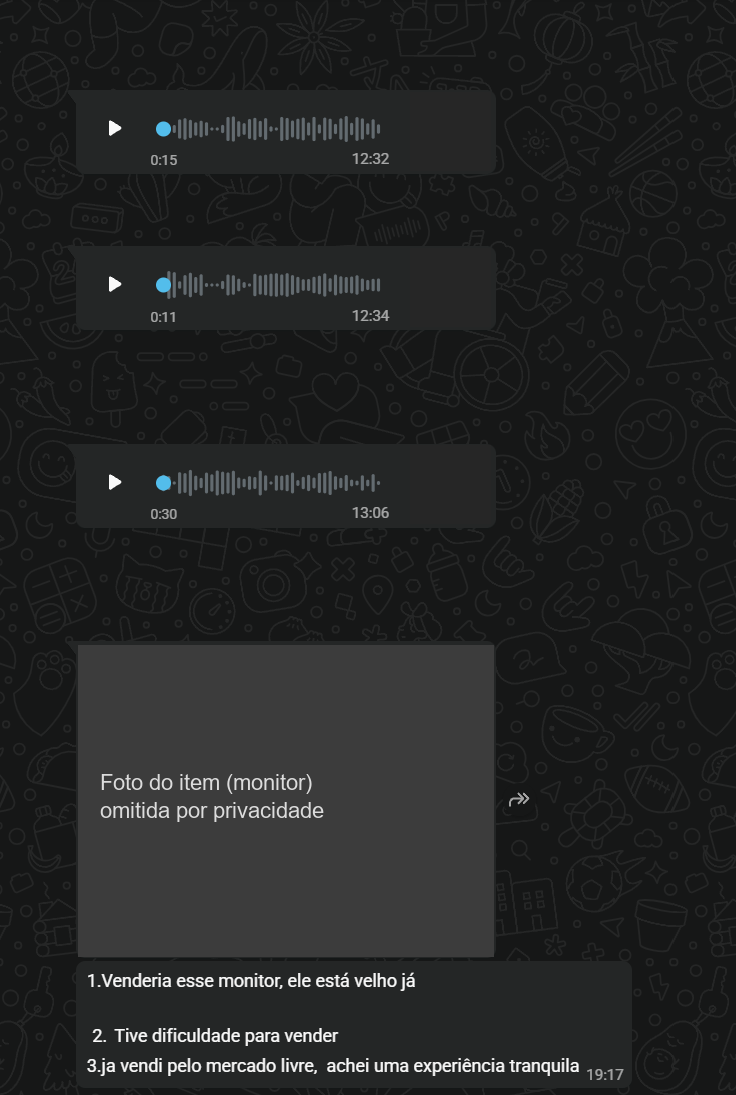
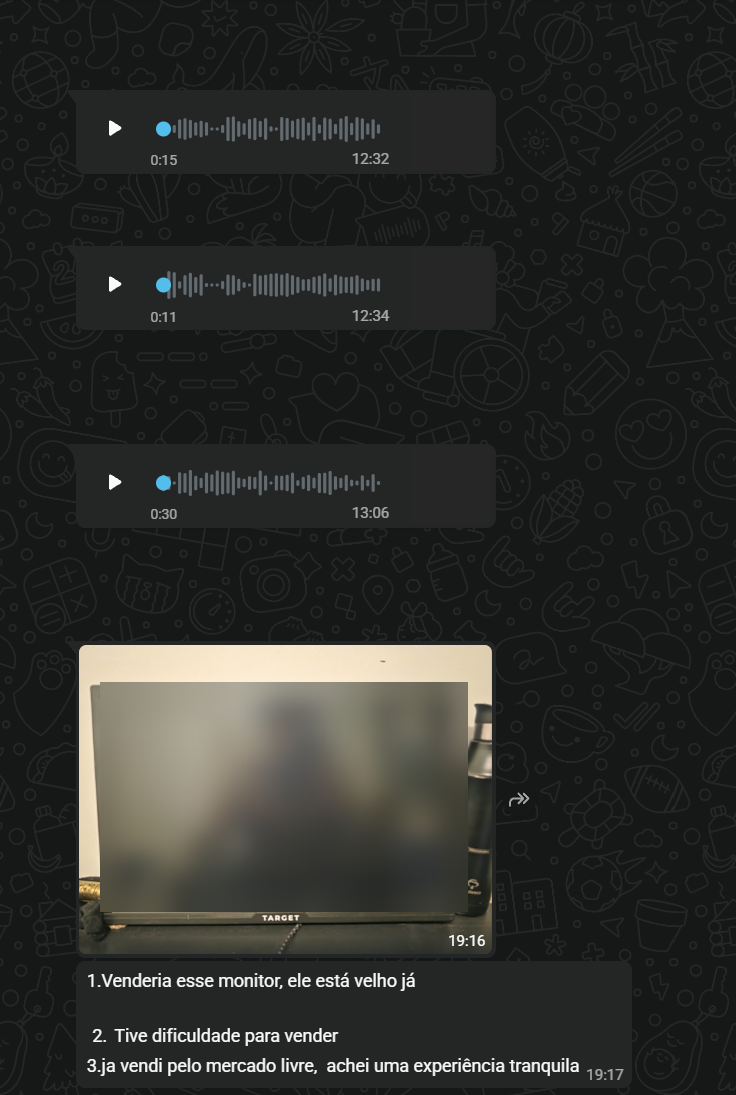
Print de V04 com a foto do monitor e reflexo borrado

Changed region(s): [[0.0938, 0.59, 0.6875, 0.8694], [0.5938, 0.7452, 0.6875, 0.8694]]

diff --git a/ciclo-2-vende-facil/04-evidencias/registro-convites.md b/ciclo-2-vende-facil/04-evidencias/registro-convites.md
@@ -6,7 +6,7 @@
 | V04 | 04/10/2026 10:37 | Conversa individual (amigo) | [convite](prints/2026-10-04_convite-V04.png) · [resposta 1](prints/2026-10-04_resposta-V04.png) · [resposta 2](prints/2026-10-04_resposta-V04-perguntas.png) | 12:32: **não tem nada que queira vender**; se ofereceu para inventar um item. 19:16: mandou a foto do monitor sugerido pelo autor e respondeu: *"Venderia esse monitor, ele está velho já"*, *"Tive dificuldade para vender"*, *"já vendi pelo Mercado Livre, achei uma experiência tranquila"* |
 | V05 | 04/10/2026 10:35 | Conversa individual (família) | [convite](prints/2026-10-04_convite-V05.png) · [resposta](prints/2026-10-04_resposta-V05.png) | 11:00: está fazendo almoço, responde em seguida |
 
-> Nos prints publicados aparecem só as mensagens do autor e as respostas, com nomes, fotos de perfil e telefones cobertos. Fotos de itens tiradas dentro de casa (com reflexo da pessoa ou do ambiente) também não são publicadas. Os originais ficam em `brutos/` (fora do Git).
+> Nos prints publicados aparecem só as mensagens do autor e as respostas, com nomes, fotos de perfil e telefones cobertos. Em fotos de itens, reflexos da pessoa e do ambiente são borrados. Os originais ficam em `brutos/` (fora do Git).
 
 ## Mensagem enviada (versão do autor)
 > [saudação], to fazendo um trabalho de faculdade, de um produto ("Vende Fácil") a ideia é você mandar a foto de um produto que você queira vender e eu te devolvo o preço sugerido + título + descrição do anúncio

diff --git a/ciclo-2-vende-facil/04-evidencias/LEIA-ME.md b/ciclo-2-vende-facil/04-evidencias/LEIA-ME.md
@@ -13,7 +13,7 @@ Tudo que comprova que o experimento aconteceu com pessoas reais.
 ## Regras de privacidade (repositório público)
 - **Nomes, fotos de perfil e telefones sempre cobertos.** Nos documentos, cada pessoa aparece só pelo código (V01 a V05).
 - Nos prints de anúncios publicados, cubra também telefone e endereço exato, se aparecerem.
-- Nada de fotos de dentro da casa das pessoas no repositório, só a do item, se a pessoa permitir.
+- Fotos de itens podem aparecer, com **reflexos da pessoa e do ambiente borrados**. A foto original fica só em `brutos/`.
 
 ## Colunas-chave do CSV
 | Coluna | Hipótese |
